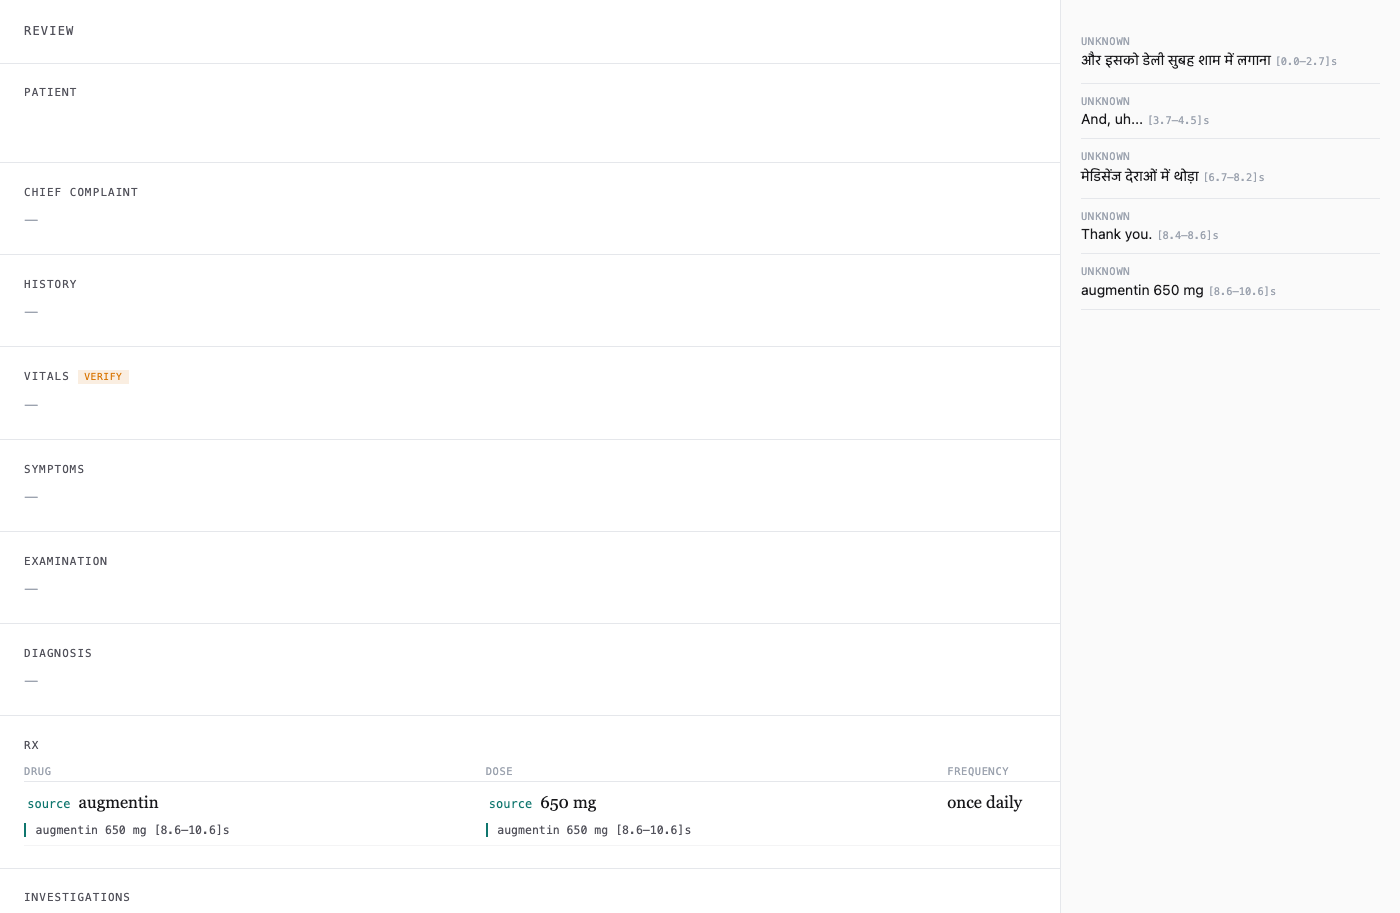
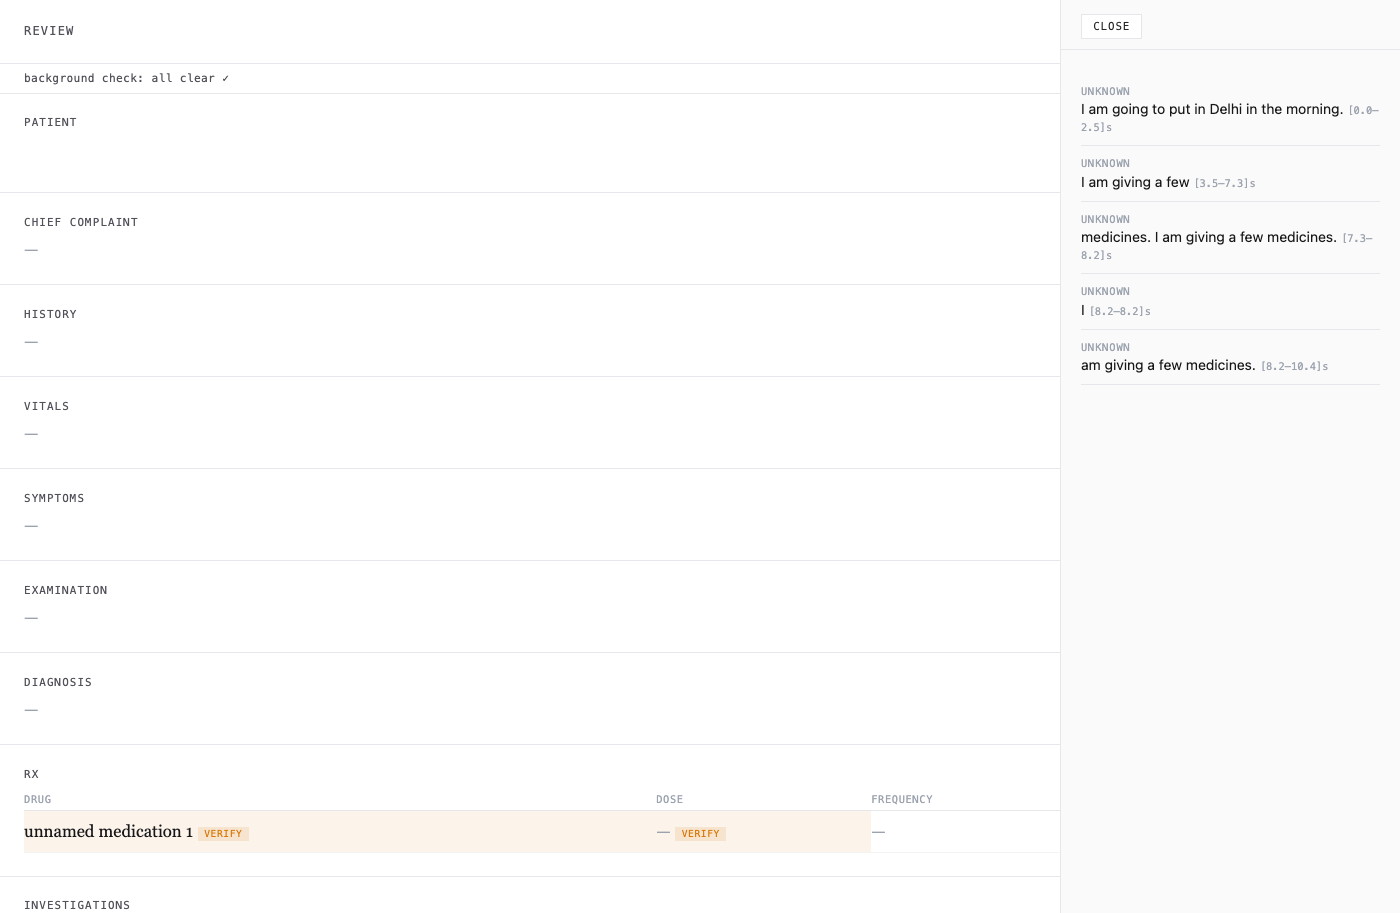
docs: README opens with a visual walkthrough; QA-phase LEARNINGS
README now introduces CliniScribe visually first — four fresh
screenshots (record → live progress → review → provenance drawer) from
the final regression run, followed by the plain-language walkthrough
and the existing step-by-step run guide; stale screenshots removed and
the verification banner referenced where the second listen is
explained.

LEARNINGS: QA-hardening entry — the category-error taxonomy gap (every
guard right, condition still in Rx; defend per field semantics, not per
incident shape) and the invisible-progress contract collapse (test
visibility at t=2s, not callback existence), plus the incident-suite
doctrine and the category-confusion-matrix fine-tune hook.

diff --git a/README.md b/README.md
@@ -4,6 +4,21 @@ On-device clinical scribe for Indian tier-2/tier-3 clinics. It turns a recorded
 consultation — Hindi, English, and Marathi, code-switched mid-sentence — into a
 structured clinical note and a prescription PDF for the physician to review and sign.
 
+| 1 · Record | 2 · Live progress |
+|---|---|
+| ![Capture screen — tap to record](docs/screenshots/capture-idle.png) | ![Processing — real per-stage progress with time remaining](docs/screenshots/processing-progress.png) |
+
+| 3 · Review the note | 4 · Trace every field to its source |
+|---|---|
+| ![Review — editable note, VERIFY flags, background-check banner](docs/screenshots/review-note.png) | ![Transcript drawer — speaker-attributed turns with timestamps](docs/screenshots/transcript-drawer.png) |
+
+Tap the mic, talk normally (Hindi/English/Marathi mixed is fine), stop — a
+structured note appears in about a minute with live progress the whole way.
+Every field links back to the exact sentence and timestamp it came from; a
+background "second listen" re-checks the safety-critical spans (drugs, doses,
+vitals, diagnosis) within ~60–90 seconds and flags any disagreement; edit
+inline, switch the display language, sign, and print the prescription.
+
 Everything runs locally on a MacBook Air (M-series, 24 GB RAM). No cloud APIs are in
 the production path: patient privacy, cost, and unreliable rural connectivity rule them
 out.
@@ -142,21 +157,18 @@ clinic, submit, then download the PDF in any of the three languages.
 All artifacts live in `outputs/<session-id>/`; reopen a finished session
 any time at `http://127.0.0.1:8000/#session=<session-id>`.
 
-| Capture (Zen) | Processing |
-|---|---|
-| ![Capture screen](docs/screenshots/capture-zen.png) | ![Processing stages](docs/screenshots/processing-stages.png) |
-
-| Review (Sage) | Transcript drawer |
-|---|---|
-| ![Review card](docs/screenshots/review-sage.png) | ![Transcript drawer](docs/screenshots/transcript-drawer.png) |
-
-Record in the browser (or upload a file), watch real per-stage progress, review
-the extracted note with per-field provenance ("source" links into the
-speaker-attributed transcript), edit inline (every edit is logged to
-`outputs/<session>/corrections.jsonl` as a structured diff), switch the UI and
-note text between English/Hindi/Marathi (drug names and doses are never
-machine-translated), then sign to produce the final PDF. Flagged fields carry a
-text "VERIFY" badge — uncertainty is never conveyed by color alone.
+Record in the browser (or upload a file), watch real per-stage progress with
+time remaining on every stage, review the extracted note with per-field
+provenance ("source" links into the speaker-attributed transcript), edit
+inline (every edit is logged to `outputs/<session>/corrections.jsonl` as a
+structured diff), switch the UI and note text between English/Hindi/Marathi
+(drug names and doses are never machine-translated), then sign — or use
+DRAFT PDF AND PRINT, which opens the print dialog over the review page.
+A background "second listen" re-decodes the safety-critical audio spans with
+a larger model within ~60–90s and flags disagreements
+(![banner](docs/screenshots/verification-banner.png) shows the all-clear
+state). Flagged fields carry a text "VERIFY" badge — uncertainty is never
+conveyed by color alone.
 
 ## Repository structure
 

diff --git a/LEARNINGS.md b/LEARNINGS.md
@@ -1251,3 +1251,54 @@ doctor-adjudicated label between two ASR hypotheses on identical audio —
 accumulating exactly the preference data a future ASR fine-tune or reranker
 needs, at zero annotation cost, in the deployment domain the frozen bench
 can't represent.
+
+---
+
+## QA Hardening Phase — Category errors and the incident suite (2026-07-12)
+
+### (a) What this phase does
+This phase closed the user-reported defect round with a QA doctrine: every
+real production failure becomes a permanent, model-free regression test
+(tests/test_incidents.py), so no fixed bug can silently return. The marquee
+fix: "my BP is high" had produced a MEDICATION row reading "(Hypertension)
+भी" — a category error the grounding guard rightly passed (the string WAS
+spoken; grounding catches inventions, not miscategorization). A deterministic
+condition guard now drops any drug-field value that fold-matches the clinical
+concepts table, with real-drug precedence proven collision-free across all
+546 lexicon entries. The same round restored and expanded live progress to
+all three pipeline stages, removed the note-appearance dead time, and pinned
+the print dialog to the review page.
+
+### (b) Hardest bugs
+
+1. **Every guard was right, and the condition still landed in the Rx table.**
+   The generic-term guard, grounding guard, and lexicon each did their job —
+   none of them owns the question "is this string a DISEASE?". Root cause: a
+   taxonomy gap between defenses, each built from a previous incident's shape
+   (invented names, generic words, misspellings) — while the model found a
+   fourth shape: correctly-transcribed, well-grounded, wrong CATEGORY.
+   Defenses built from incident shapes will always trail the model's
+   creativity by one shape; the countermeasure is a defense per FIELD
+   SEMANTICS (what may a drug field contain?) rather than per failure story —
+   plus the incident suite so each new shape is at least never repeated.
+
+2. **The progress display existed, worked, and was never visible.** The fast
+   engine reports progress once per decode window; short clinic clips pack
+   into ONE window, so the single progress event raced the stage-end event
+   that clears it — technically alive, observably dead (934 of 934 DOM
+   samples empty). Root cause: an interface contract ("callback fires during
+   the stage") that silently degenerated when the implementation's
+   granularity (per-window) collapsed to one unit. The fix blends calibrated
+   expectation (per-stage medians from real session history, shown instantly,
+   capped at 95%) with true events wherever they exist. Lesson: progress
+   reporting is a product surface with its own liveness requirement — test
+   "is it VISIBLE at t=2s?", not "does the callback fire?".
+
+### (c) Fine-tuning hook
+The BP incident is the clearest argument yet for constrained extraction: the
+model had the right information in the right fields (history captured "BP is
+high") and STILL emitted a spurious medication row. A future fine-tune or
+constrained-decoding scheme should be evaluated not just on recall but on a
+category-confusion matrix (condition-in-Rx, drug-in-diagnosis, etc.) — and
+tests/test_incidents.py plus the corrections flywheel now accumulate exactly
+those labeled confusions from real use.
